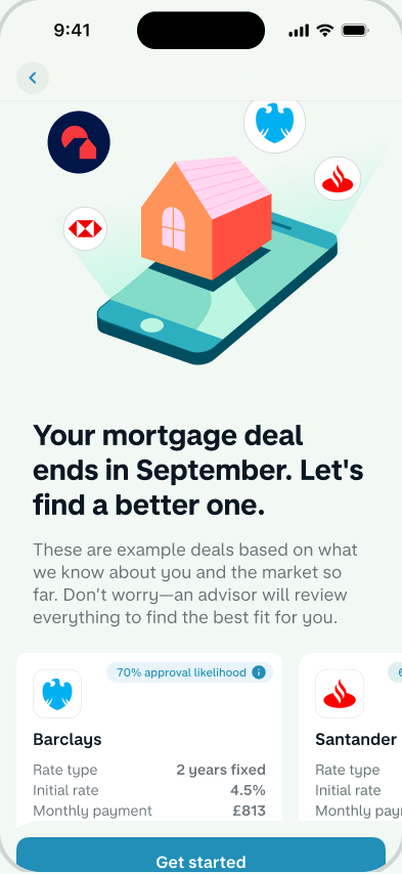
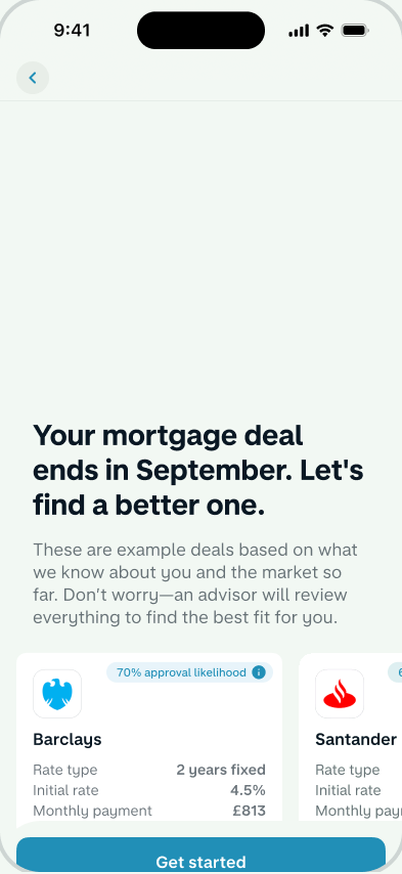
Presentation: smaller, animated illustration on the first vision frame
Claude-Session: https://claude.ai/code/session_019ui8k763ghSzq4U6arn5bM

Changed region(s): [[0.1791, 0.1545, 0.8955, 0.4325], [0.1194, 0.1236, 0.2985, 0.2162], [0.6269, 0.0927, 0.7463, 0.1854]]

diff --git a/remortgage-presentation/index.html b/remortgage-presentation/index.html
@@ -9,10 +9,10 @@
 <link rel="preconnect" href="https://fonts.googleapis.com">
 <link rel="preconnect" href="https://fonts.gstatic.com" crossorigin>
 <link href="https://fonts.googleapis.com/css2?family=DM+Sans:opsz,wght@9..40,400;9..40,500;9..40,600;9..40,700;9..40,800&family=Fragment+Mono&display=swap" rel="stylesheet">
-<link rel="stylesheet" href="styles.css?v=45">
-<link rel="stylesheet" href="deck.css?v=45">
+<link rel="stylesheet" href="styles.css?v=46">
+<link rel="stylesheet" href="deck.css?v=46">
 <link rel="preconnect" href="https://images.ctfassets.net">
-<script src="slides.js?v=45" defer></script>
+<script src="slides.js?v=46" defer></script>
 </head>
 <body>
 <header class="topbar">
@@ -131,7 +131,7 @@
     <ul class="design-points"><li class="a" style="--d:3"><b>01 · The application, in the app.</b> Pre-filled with what Monzo already knows.</li><li class="a" style="--d:4"><b>02 · Choose how you talk to an adviser.</b> An adviser first, or deals first.</li><li class="a" style="--d:5"><b>03 · Take the pain out of paperwork.</b> Documents, straight from your phone.</li><li class="a" style="--d:6"><b>04 · Always know what’s next.</b> One tracker, from first look to completion.</li></ul>
     <div class="design-status a" style="--d:7">My vision designs, 2025 · published on the Monzo blog</div><p class="note a" style="--d:8;color:#9fb0b8!important;margin-top:14px!important">It became the team’s North Star and part of the case for a new partnership model.</p><a class="fig-link ghost a" style="--d:8;margin-top:14px;color:#fff;border-color:rgba(255,255,255,.4)" href="https://www.figma.com/design/auJMcyTUagjoT1qWHXPAzR/Remortgage-experience-vision?node-id=719-20935&t=fLzNMSg7tPnlWpjz-1" target="_blank" rel="noopener">See the full vision in Figma ↗</a>
   </div>
-  <div class="design-stage a" style="--d:2"><iframe data-src="proto/flow.html?f=vision&v=1" title="One journey, inside Monzo, that flexes to you — animated prototype" style="width:860px" allowtransparency="true"></iframe></div>
+  <div class="design-stage a" style="--d:2"><iframe data-src="proto/flow.html?f=vision&v=2" title="One journey, inside Monzo, that flexes to you — animated prototype" style="width:860px" allowtransparency="true"></iframe></div>
 </div><div class="foot on-dark"><span>Monzo Homeownership · design case study</span><span>09 / 39</span></div></section>
 <section class="slide light" data-n="10" data-k="plan"><div class="eyebrow a">02 · The vision · June 2025</div><h1 class="a" style="--d:1">I turned the vision into bets the team could ship</h1>
 <div class="grid three" style="margin-top:34px">

diff --git a/remortgage-presentation/proto/flow.js b/remortgage-presentation/proto/flow.js
@@ -50,7 +50,7 @@
     vision: {
       steps: ['Your deal is ending: example deals, inside Monzo', 'Choose: an adviser first, or deals first', 'Pre-filled with what Monzo already knows', 'Recommendations, with your adviser one tap away', 'Every detail of the deal', 'Documents, straight from your phone', 'Always know what’s next'],
       beats: [
-        {img: 'vz-deals.png', step: 0, hold: 2600, tap: [201, 838], go: 'push'},
+        {img: 'vz-deals.png', anim: {src: 'remortgage-presentation/assets/anim/house-light.webp', left: 86, top: 150, width: 230}, step: 0, hold: 3000, tap: [201, 838], go: 'push'},
         {img: 'vz-choose.png', step: 1, hold: 2800, tap: [133, 740], go: 'push'},
         {img: 'vz-look.png', step: 2, hold: 2400, tap: [184, 373], go: 'push'},
         {img: 'vz-review.png', step: 2, hold: 3600, scroll: 751, scrollMs: 2600, tap: [201, 805], go: 'push'},
@@ -77,7 +77,7 @@
 
   list.innerHTML = flow.steps.map((label, i) => `<li><button type="button" data-step="${i}"><span class="mg-tk-num">${String(i + 1).padStart(2, '0')}</span><span>${label}</span></button></li>`).join('');
   const buttons = [...list.querySelectorAll('button')];
-  screen.innerHTML = '<div class="fl-layer"><img alt=""></div><div class="fl-layer"><img alt=""></div><i class="fl-tap"></i>';
+  screen.innerHTML = '<div class="fl-layer"><img alt=""><img class="fl-anim" alt="" hidden></div><div class="fl-layer"><img alt=""><img class="fl-anim" alt="" hidden></div><i class="fl-tap"></i>';
   const layers = [...screen.querySelectorAll('.fl-layer')];
   const tapDot = screen.querySelector('.fl-tap');
   flow.beats.forEach(beat => { new Image().src = A + beat.img; });
@@ -94,6 +94,9 @@
     const img = incoming.querySelector('img');
     incoming.classList.add('no-anim');
     img.src = A + beat.img;
+    const anim = incoming.querySelector('.fl-anim');
+    if (beat.anim) { anim.src = beat.anim.src + '?r=' + Date.now() % 1e6; anim.style.cssText = `left:${beat.anim.left}px;top:${beat.anim.top}px;width:${beat.anim.width}px`; anim.hidden = false; }
+    else { anim.hidden = true; anim.removeAttribute('src'); }
     setScroll(img, beat.from || 0, 0);
     if (!how || reduced) {
       incoming.className = 'fl-layer no-anim'; incoming.style.zIndex = 2; outgoing.style.zIndex = 1;

diff --git a/remortgage-presentation/proto/flow.html b/remortgage-presentation/proto/flow.html
@@ -2,8 +2,8 @@
 <html lang="en"><head><meta charset="utf-8"><meta name="viewport" content="width=device-width, initial-scale=1"><meta name="robots" content="noindex">
 <title>Prototype</title><base href="../../"><link rel="preconnect" href="https://fonts.googleapis.com"><link rel="preconnect" href="https://fonts.gstatic.com" crossorigin><link href="https://fonts.googleapis.com/css2?family=DM+Sans:opsz,wght@9..40,400;9..40,500;9..40,600;9..40,700&family=Onest:wght@400;500;600;700&family=Fragment+Mono&display=swap" rel="stylesheet">
 <link rel="stylesheet" href="styles.css"><link rel="stylesheet" href="case-study.css?v=2"><link rel="stylesheet" href="mortgages.css?v=8"><link rel="stylesheet" href="case-experience.css?v=2"><link rel="stylesheet" href="mortgage-prototype.css?v=4"><link rel="stylesheet" href="mortgage-tracker.css?v=4"><link rel="stylesheet" href="mortgage-onboarding.css?v=8"><link rel="stylesheet" href="mortgage-rates.css?v=2"><link rel="stylesheet" href="case-format.css?v=4"><link rel="stylesheet" href="headings.css?v=2"><link rel="stylesheet" href="case-layout.css?v=2"><link rel="stylesheet" href="mortgage-device.css?v=4">
-<link rel="stylesheet" href="remortgage-presentation/proto/proto.css?v=2"></head>
+<link rel="stylesheet" href="remortgage-presentation/proto/proto.css?v=5"></head>
 <body class="mortgage-case proto-embed is-flow">
 <section class="mg-tracker" data-flow><div class="mg-tracker-copy"><ol class="mg-tk-steps" data-flow-steps aria-label="Prototype stages"></ol><div class="mg-tk-bar"><button type="button" class="mg-tk-toggle" data-flow-toggle aria-pressed="false"><i aria-hidden="true"></i><span>Play</span></button></div></div><figure class="mg-tk-phone"><span class="mg-bz"><span class="mg-tk-viewport"><span class="fl-screen" data-flow-screen role="img" aria-label="Animated prototype built from Figma frames"></span></span></span></figure></section>
-<script src="remortgage-presentation/proto/flow.js?v=3"></script>
+<script src="remortgage-presentation/proto/flow.js?v=4"></script>
 <script src="remortgage-presentation/proto/embed.js?v=1"></script></body></html>

diff --git a/remortgage-presentation/proto/proto.css b/remortgage-presentation/proto/proto.css
@@ -86,3 +86,6 @@ body.proto-embed.is-bare .mg-tracker .mg-tracker-copy{display:none!important}
 @keyframes eqDrift{from{transform:translateX(-7px)}to{transform:translateX(9px)}}
 @keyframes eqTwinkle{0%,100%{transform:scale(1) rotate(0);opacity:1}50%{transform:scale(.55) rotate(25deg);opacity:.55}}
 @media (prefers-reduced-motion:reduce){.proto-embed .eq-art,.proto-embed .eq-art *{animation:none!important}.proto-embed .eq-fill{width:58%}}
+
+.fl-layer img.fl-anim{position:absolute;height:auto;transition:none}
+.fl-layer img.fl-anim[hidden]{display:none}
